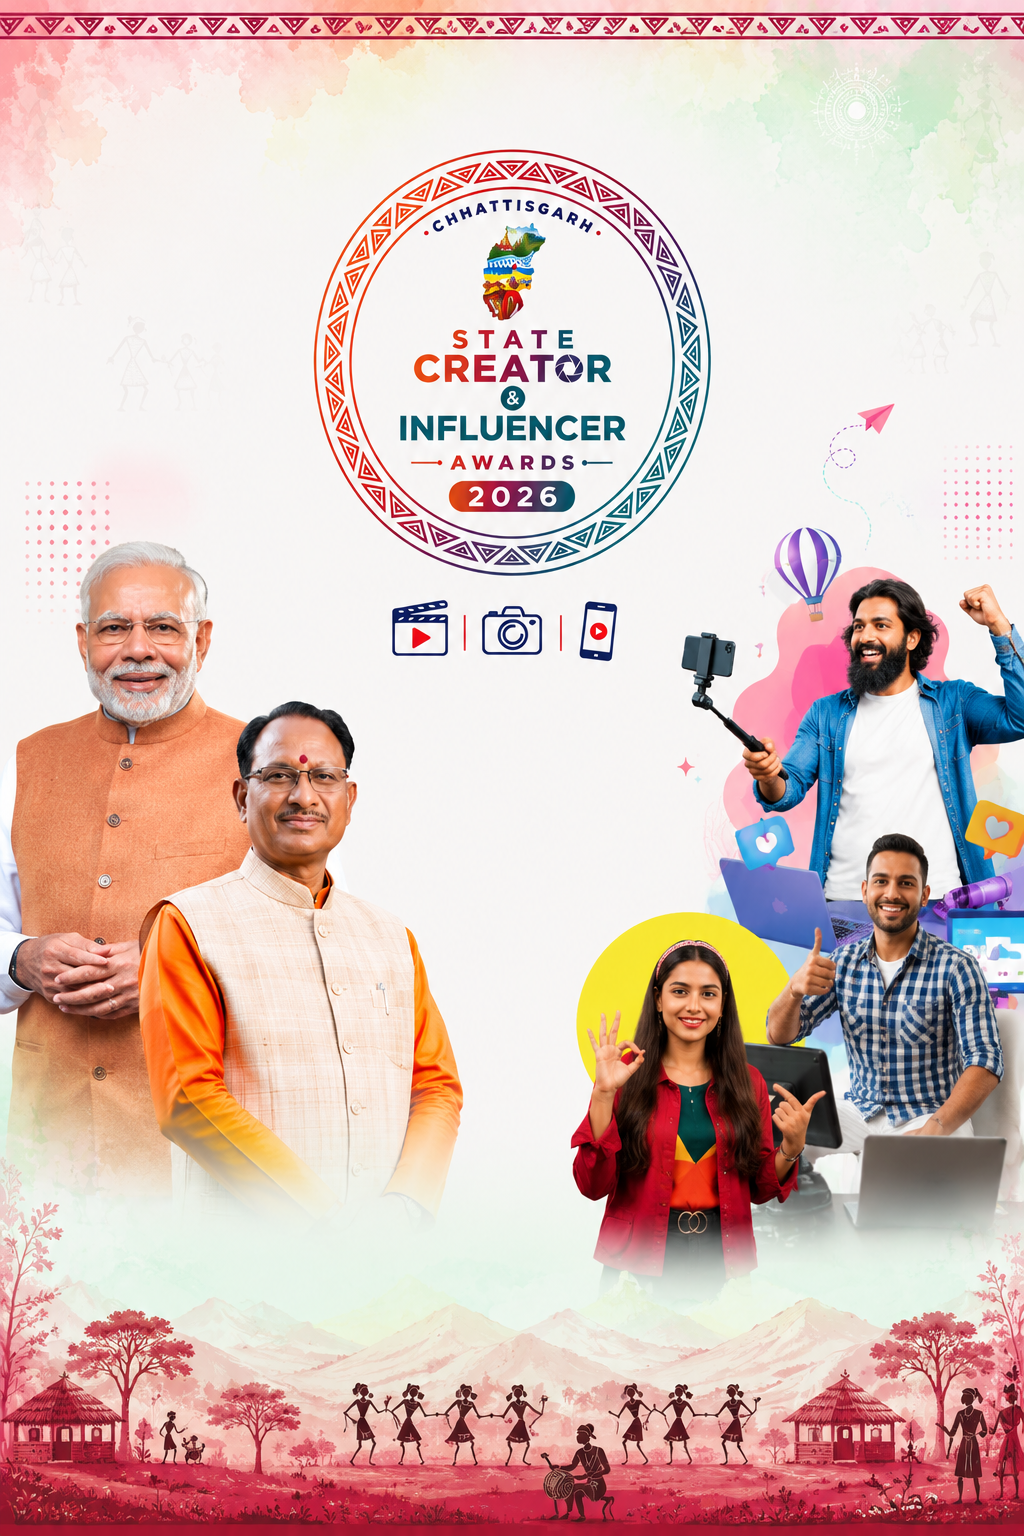
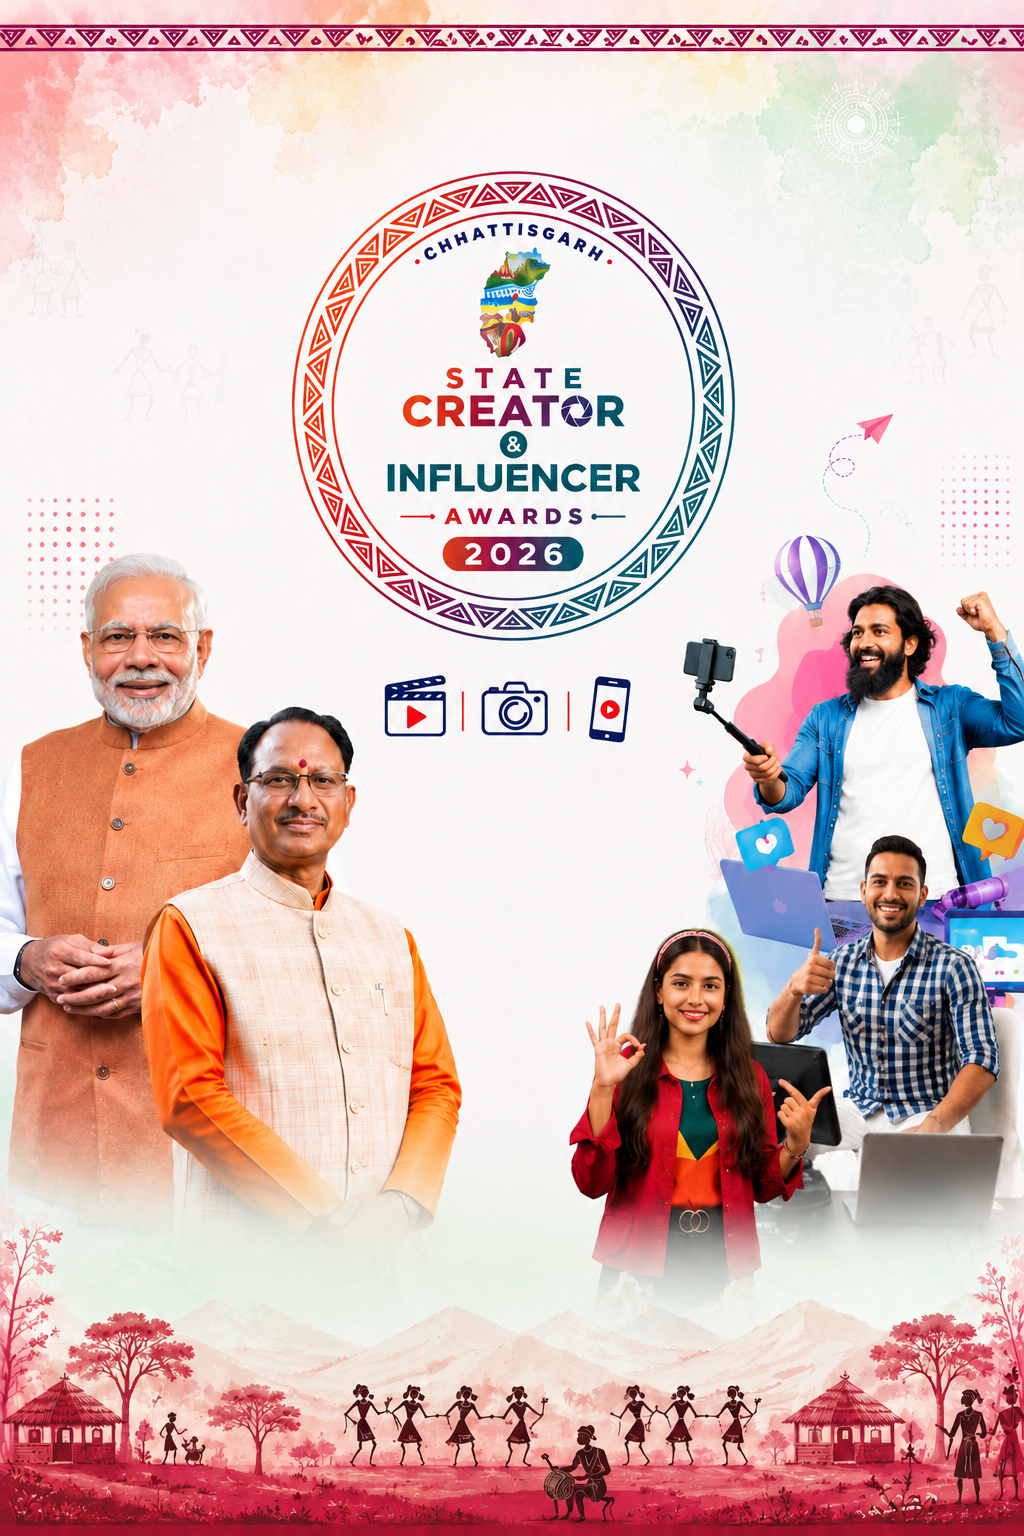
herosection image change

diff --git a/src/components/home/ConferenceShiftSection.jsx b/src/components/home/ConferenceShiftSection.jsx
@@ -3,9 +3,7 @@
 import { useState, useEffect, useRef } from "react";
 import Image from "next/image";
 import { useLanguage } from "@/context/LanguageContext";
-import { useParticipateModal } from "@/context/ParticipateModalContext";
 import Heading from "@/components/common/Heading";
-import { ParticipateButton } from "@/components/common/Button";
 
 const GALLERY_CARDS = [
   {
@@ -52,7 +50,6 @@ const GALLERY_CARDS = [
 
 export default function ConferenceShiftSection() {
   const { t } = useLanguage();
-  const { openModal } = useParticipateModal();
   const [activeIndex, setActiveIndex] = useState(0);
   const [isAutoPlaying, setIsAutoPlaying] = useState(true);
   const cardContainerRef = useRef(null);
@@ -265,17 +262,6 @@ export default function ConferenceShiftSection() {
               )}
             </p>
 
-          </div>
-
-          {/* Participate CTA Button */}
-          <div className="mt-8 flex items-center justify-center gap-4 animate-fade-up">
-            <ParticipateButton
-              onClick={openModal}
-              size="lg"
-              className="px-8 py-3.5 text-base sm:text-lg font-extrabold shadow-[0_10px_28px_rgba(193,91,61,0.4)] hover:shadow-[0_14px_36px_rgba(193,91,61,0.6)] hover:scale-[1.02] transition-all duration-300"
-            >
-              {t("Participate Now")} →
-            </ParticipateButton>
           </div>
 
           {/* Premium Glass Quote Card with Golden Quotation Icon */}

diff --git a/src/components/home/HeroSection.jsx b/src/components/home/HeroSection.jsx
@@ -4,8 +4,8 @@ import { useLanguage } from "@/context/LanguageContext";
 import { useParticipateModal } from "@/context/ParticipateModalContext";
 import { ParticipateButton } from "@/components/common/Button";
 
-const DESKTOP_HERO_IMAGE = "/assets/images/herosection.jpeg";
-const MOBILE_HERO_IMAGE = "/assets/images/mob-hero-2.png";
+const DESKTOP_HERO_IMAGE = "/assets/images/herosection-1.png";
+const MOBILE_HERO_IMAGE = "/assets/images/mob-hero-1.png";
 
 export default function HeroSection() {
   const { openModal } = useParticipateModal();
@@ -40,9 +40,17 @@ export default function HeroSection() {
           draggable={false}
         />
 
+        {/* Overlay Participate CTA Button at the bottom of hero image */}
+        <div className="absolute bottom-[43%] lg:bottom-[14%] xl:bottom-[16%] z-10 flex items-center justify-center ">
+          <ParticipateButton
+            onClick={openModal}
+            size="lg"
+            className="px-2 sm:px-6 md:px-8 py-2 sm:py-3.5 text-xs sm:text-base md:text-lg font-bold shadow-[0_8px_30px_rgba(193,91,61,0.5)] hover:shadow-[0_12px_40px_rgba(193,91,61,0.7)] hover:scale-105 transition-all duration-300"
+          >
+            {t("Participate Now")} →
+          </ParticipateButton>
+        </div>
       </div>
-
-
     </section>
   );
 }
